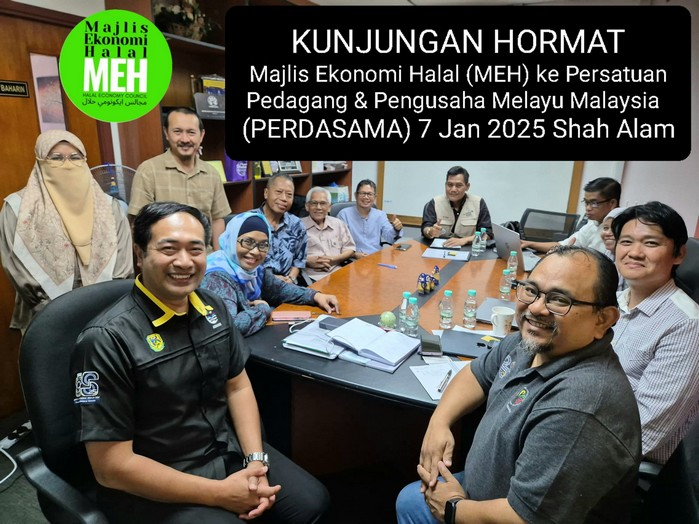
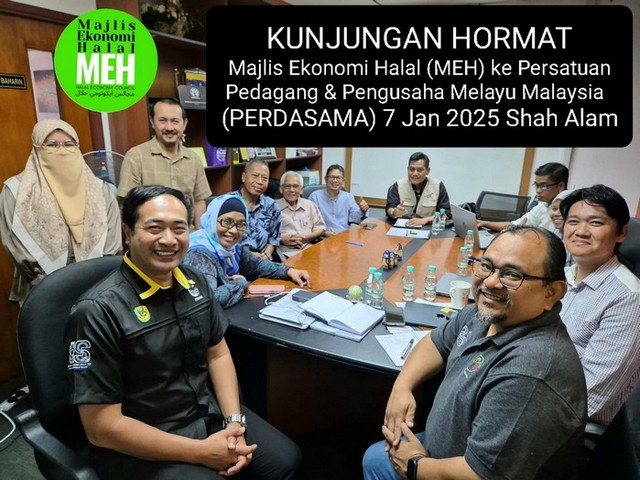
yes

diff --git a/acara/page.html b/acara/page.html
@@ -183,12 +183,12 @@ showCurrentTime(1);//-->
     </div>
     <div class="responsive-picture picture-2">
       <picture>
-        <img alt="© MEH" width="480" height="640" src="./images/mehme3.jpg">
+        <img alt="© MEH" width="480" height="640" src="./images/mehme2.jpg">
       </picture>
     </div>
     <div class="responsive-picture picture-3">
       <picture>
-        <img alt="© MEH" width="400" height="506" src="./images/mehme2.jpg">
+        <img alt="© MEH" width="400" height="506" src="./images/mehme3.jpg">
       </picture>
     </div>
   </div>
